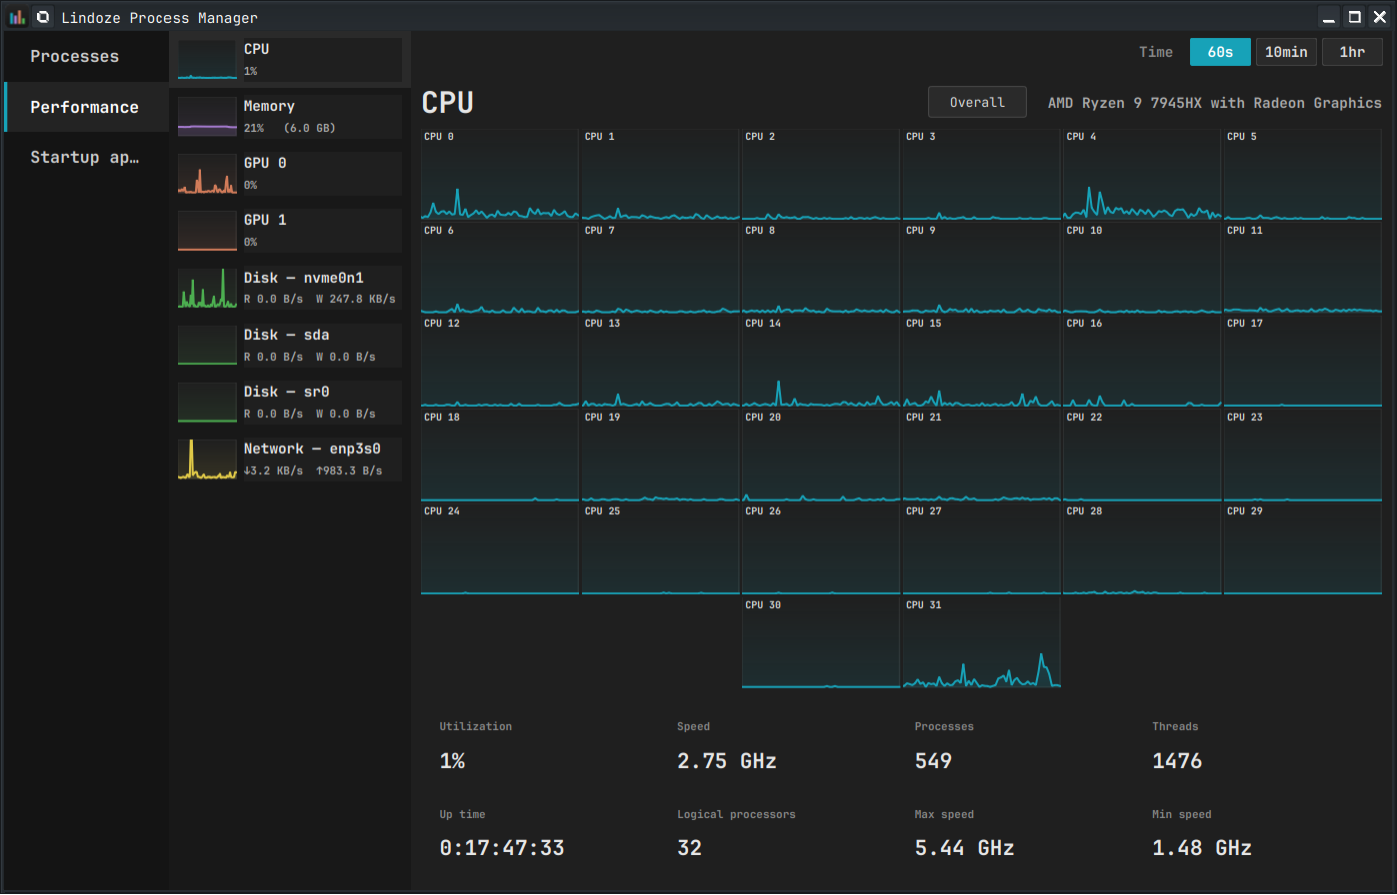
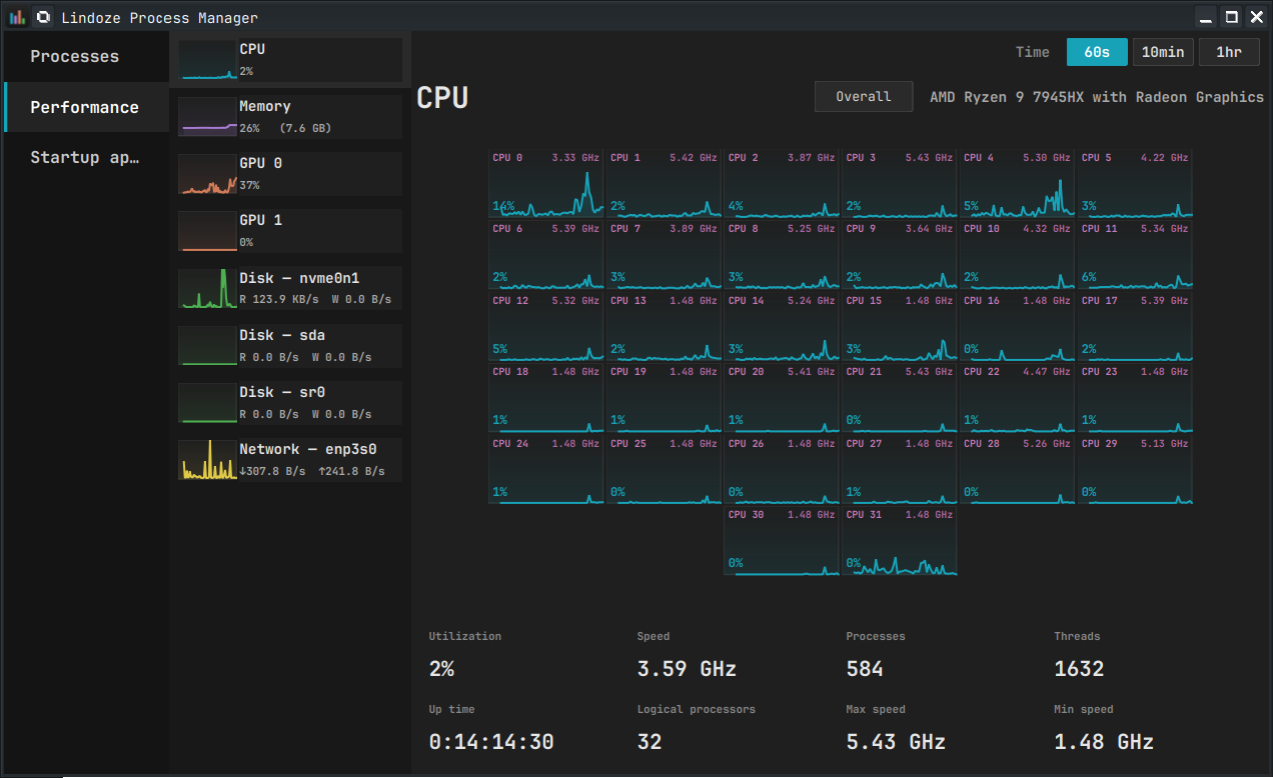
docs: refresh screenshots for v0.3.0 graph readability
Replace the CPU grid shot with one showing per-core clock speeds and live
load, and add Disk/Network captures of the new combined dual-trace graphs.
Bump screenshot cache-busters and the features heading to v0.3.

diff --git a/README.md b/README.md
@@ -17,7 +17,17 @@ See [CHANGELOG.md](CHANGELOG.md) for release history.
 The Performance tab defaults to the per-thread grid (right-click or toggle
 button to switch to the aggregate view):
 
-![CPU per-thread grid](https://raw.githubusercontent.com/awn007-eng/lindoze/main/docs/screenshots/cpu-grid.png?v=0.2.5)
+![CPU per-thread grid](https://raw.githubusercontent.com/awn007-eng/lindoze/main/docs/screenshots/cpu-grid.png?v=0.3.0)
+
+Each cell shows its core's live clock speed and current load, so the grid reads
+at a glance instead of being 32 anonymous sparklines.
+
+Disk and Network each draw both directions as one combined graph — two
+color-coded traces sharing an axis, with live values and a real scale label:
+
+![Disk read/write graph](https://raw.githubusercontent.com/awn007-eng/lindoze/main/docs/screenshots/disk.png?v=0.3.0)
+
+![Network receive/send graph](https://raw.githubusercontent.com/awn007-eng/lindoze/main/docs/screenshots/net.png?v=0.3.0)
 
 Processes tab — sortable tree, search, end-task / kill / suspend / renice:
 
@@ -27,7 +37,7 @@ Startup apps tab — toggle XDG autostart entries with a 10-second undo:
 
 ![Startup tab](https://raw.githubusercontent.com/awn007-eng/lindoze/main/docs/screenshots/startup.png?v=0.2.5)
 
-## Features (v0.2)
+## Features (v0.3)
 
 - **Performance tab** with per-resource sub-navigation
   - **CPU** — aggregate + per-logical-processor grid (auto-sized; handles 2 to 128+ threads)
